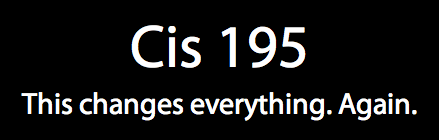
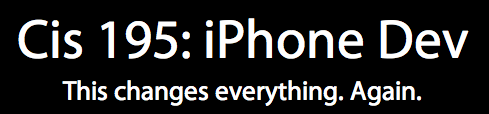
Cis 195: iPhone Dev

Changed region(s): [[0.2073, 0.1579, 0.9772, 0.5263], [0.0296, 0.6579, 0.9476, 0.9474], [0.0296, 0.1579, 0.1777, 0.5263]]

diff --git a/public/stylesheets/layout.css b/public/stylesheets/layout.css
@@ -1,13 +1,13 @@
 #text_large {
 	text-align:center;
 	color:white;
-	font: 60px "Myriad Pro";
+	font: 55px "Myriad Pro";
 }
 
 #text_small {
 	text-align:center;
 	color:white;
-	font: 30px "Myriad Pro";
+	font: 27px "Myriad Pro";
 }
 
 .body {
@@ -16,5 +16,5 @@
 
 #main {
 	position:relative;
-	margin-top: 5%;
+	margin-top: 9%;
 }
